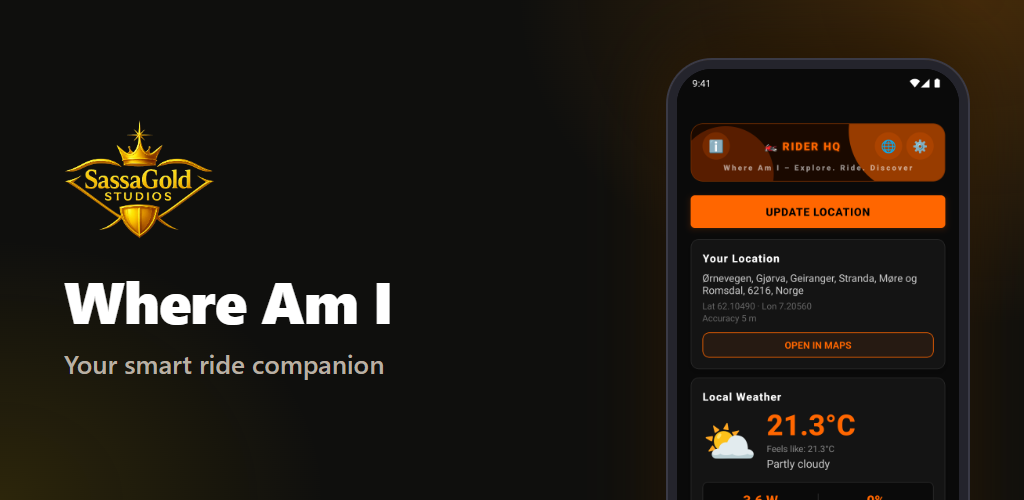
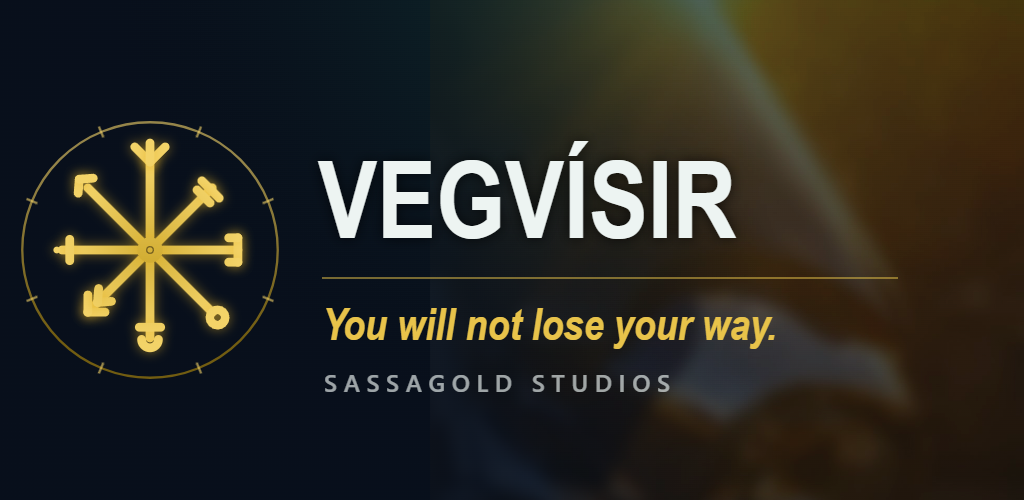
Localized Vegvisir store graphics for all 5 Play locales
- New 1024x500 feature graphics (en-US/no-NO/is-IS/sv-SE/da-DK): gold stave +
  VEGVISIR wordmark over the sunset-ride photo, with each locale's own slogan.
- Add the missing sv-SE and da-DK Play screenshot sets (8 x 1080x1920, Nordic
  1.3.0+ theme, live Oslo data) so the new listings don't fall back to English.
- Add scripts/push-play-graphics.js: dependency-free uploader (same JWT pattern
  as push-play-listing.js) that replaces featureGraphic + phoneScreenshots per
  locale. Dry-run verified: 5 locales, feature graphic + 8 shots each.

diff --git a/scripts/push-play-graphics.js b/scripts/push-play-graphics.js
@@ -1,0 +1,118 @@
+/**
+ * Pushes store-listing/graphics/<locale>/ images to the Google Play listing:
+ * the 1024x500 feature-graphic.png and the numbered screenshots/ set
+ * (phoneScreenshots, replaced wholesale in filename order).
+ * Dependency-free (Node >= 18). Mirrors push-play-listing.js auth.
+ *
+ *   node scripts/push-play-graphics.js --key /path/to/service-account.json [--dry-run]
+ */
+const fs = require('fs');
+const path = require('path');
+const crypto = require('crypto');
+
+const PKG = 'com.sassagold.whereami';
+const ROOT = path.join(__dirname, '..', 'store-listing', 'graphics');
+const BASE = `https://androidpublisher.googleapis.com/androidpublisher/v3/applications/${PKG}`;
+const UPLOAD = `https://androidpublisher.googleapis.com/upload/androidpublisher/v3/applications/${PKG}`;
+
+const arg = (name, fallback) => {
+  const i = process.argv.indexOf(name);
+  return i > -1 ? process.argv[i + 1] : fallback;
+};
+const DRY = process.argv.includes('--dry-run');
+const KEY_PATH = arg('--key');
+if (!KEY_PATH) { console.error('Missing --key <service-account.json>'); process.exit(1); }
+
+const b64u = (b) => Buffer.from(b).toString('base64url');
+
+async function accessToken() {
+  const k = JSON.parse(fs.readFileSync(KEY_PATH, 'utf8'));
+  const now = Math.floor(Date.now() / 1000);
+  const header = b64u(JSON.stringify({ alg: 'RS256', typ: 'JWT' }));
+  const claims = b64u(JSON.stringify({
+    iss: k.client_email,
+    scope: 'https://www.googleapis.com/auth/androidpublisher',
+    aud: k.token_uri, iat: now, exp: now + 3600,
+  }));
+  const input = `${header}.${claims}`;
+  const sig = crypto.createSign('RSA-SHA256').update(input).sign(k.private_key);
+  const jwt = `${input}.${b64u(sig)}`;
+  const res = await fetch(k.token_uri, {
+    method: 'POST',
+    headers: { 'Content-Type': 'application/x-www-form-urlencoded' },
+    body: new URLSearchParams({
+      grant_type: 'urn:ietf:params:oauth:grant-type:jwt-bearer', assertion: jwt,
+    }),
+  });
+  if (!res.ok) throw new Error(`token: ${res.status} ${await res.text()}`);
+  return (await res.json()).access_token;
+}
+
+async function api(token, method, url, body) {
+  const res = await fetch(url, {
+    method,
+    headers: { Authorization: `Bearer ${token}`, 'Content-Type': 'application/json' },
+    body: body ? JSON.stringify(body) : undefined,
+  });
+  if (!res.ok) throw new Error(`${method} ${url}: ${res.status} ${await res.text()}`);
+  return res.status === 204 ? null : res.json();
+}
+
+async function uploadImage(token, editId, locale, imageType, filePath) {
+  const res = await fetch(
+    `${UPLOAD}/edits/${editId}/listings/${locale}/${imageType}?uploadType=media`,
+    {
+      method: 'POST',
+      headers: { Authorization: `Bearer ${token}`, 'Content-Type': 'image/png' },
+      body: fs.readFileSync(filePath),
+    }
+  );
+  if (!res.ok) throw new Error(`upload ${locale}/${imageType}: ${res.status} ${await res.text()}`);
+  return res.json();
+}
+
+(async () => {
+  // Locale dirs are the ones that hold a feature graphic and/or screenshots.
+  const locales = fs.readdirSync(ROOT).filter((d) => {
+    const p = path.join(ROOT, d);
+    return fs.statSync(p).isDirectory() &&
+      (fs.existsSync(path.join(p, 'feature-graphic.png')) ||
+       fs.existsSync(path.join(p, 'screenshots')));
+  });
+
+  const plan = {};
+  for (const loc of locales) {
+    const fg = path.join(ROOT, loc, 'feature-graphic.png');
+    const shotsDir = path.join(ROOT, loc, 'screenshots');
+    const shots = fs.existsSync(shotsDir)
+      ? fs.readdirSync(shotsDir).filter((f) => f.endsWith('.png')).sort()
+          .map((f) => path.join(shotsDir, f))
+      : [];
+    plan[loc] = { fg: fs.existsSync(fg) ? fg : null, shots };
+    console.log(`  ${loc}: feature-graphic ${plan[loc].fg ? 'yes' : 'NO'}, ` +
+      `${shots.length} screenshots`);
+  }
+  if (DRY) { console.log('dry run — nothing pushed'); return; }
+
+  const token = await accessToken();
+  const edit = await api(token, 'POST', `${BASE}/edits`, {});
+  console.log('edit:', edit.id);
+
+  for (const [loc, p] of Object.entries(plan)) {
+    if (p.fg) {
+      await api(token, 'DELETE', `${BASE}/edits/${edit.id}/listings/${loc}/featureGraphic`);
+      await uploadImage(token, edit.id, loc, 'featureGraphic', p.fg);
+      console.log(`feature graphic replaced: ${loc}`);
+    }
+    if (p.shots.length) {
+      await api(token, 'DELETE', `${BASE}/edits/${edit.id}/listings/${loc}/phoneScreenshots`);
+      for (const shot of p.shots) {
+        await uploadImage(token, edit.id, loc, 'phoneScreenshots', shot);
+      }
+      console.log(`phone screenshots replaced: ${loc} (${p.shots.length})`);
+    }
+  }
+
+  await api(token, 'POST', `${BASE}/edits/${edit.id}:commit`);
+  console.log('COMMITTED — graphics sent to Play review');
+})().catch((e) => { console.error(e.message); process.exit(1); });
